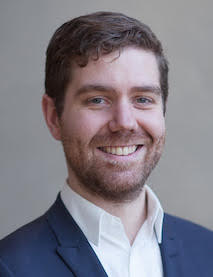
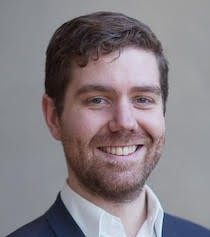
ajout de Tess et redimentionnement des photos

diff --git a/membres.html b/membres.html
@@ -30,7 +30,7 @@
 			<!-- Main -->
 				<section id="main" class="container">
 					<header>
-						<h2>Membres du Conseil d'Adminstration</h2>
+						<h2>Membres</h2>
 						<p>Les bénévoles au service de l'assocation.</p>
 					</header>
 					<div class="row">
@@ -39,18 +39,31 @@
 
 							<!-- Image -->
 								<section class="box">
-									<p><span class="image left"><img src="images/membres/hugo.jpg" alt="" /></span><h3>Président</h3></br>
+									<p><span class="image left"><img src="images/membres/hugo.jpg" alt="Hugo" /></span>
+									<h3>Président</h3></br>
 									Chargé de développement commercial dans une start-up, <b>Hugo, 26 ans</b>, a de nombreuses expériences associatives ainsi qu’en management des personnes et des organisations.</p>
 
 									<hr />
 
-									<p><span class="image right"><img src="images/membres/claire.jpg" alt="" /></span><h3>Trésorière</h3><br/>Assistante sociale de métier, <b>Claire, 24 ans</b>, a mis son sens de l’organisation et de l’écoute au service des Scouts et Guides de France ces cinq dernières années.</p>
+									<p><span class="image right"><img src="images/membres/claire.jpg" alt="Claire" /></span>
+									<h3>Trésorière</h3><br/>Assistante sociale de métier, <b>Claire, 24 ans</b>, a mis son sens de l’organisation et de l’écoute au service des Scouts et Guides de France ces cinq dernières années.</p>
 									
 									<hr />
 									
-									<p><span class="image left"><img src="images/membres/tess.jpg" alt="" /></span><h3>Secrétaire</h3></br>
+									<p><span class="image left"><img src="images/membres/tess.jpg" alt="Teresa" /></span>
+									<h3>Secrétaire</h3></br>
 									Etudiante en coopération et développement de l’Amérique Latine, <b>Teresa, 22 ans</b>, a une longue expérience associative chez les Scouts et Guides de France où elle a guidé de nombreux jeunes dans la réalisation de leurs projets.</p>
 
+
+									<hr />
+									
+									<p><span class="image right"><img src="images/membres/alice.jpg" alt="Alice" /></span>
+									<h3>Chargée de partenariats</h3></br>
+									Diplômée d’école de commerce, <b>Alice, 23 ans</b>, est spécialiste de la recherche de partenariats dans le milieu de l’économie sociale et solidaire.</p>
+
+									<hr />
+
+									<h3>Et de nombreux autres bénévoles</h3>
 
 								</section>
 
